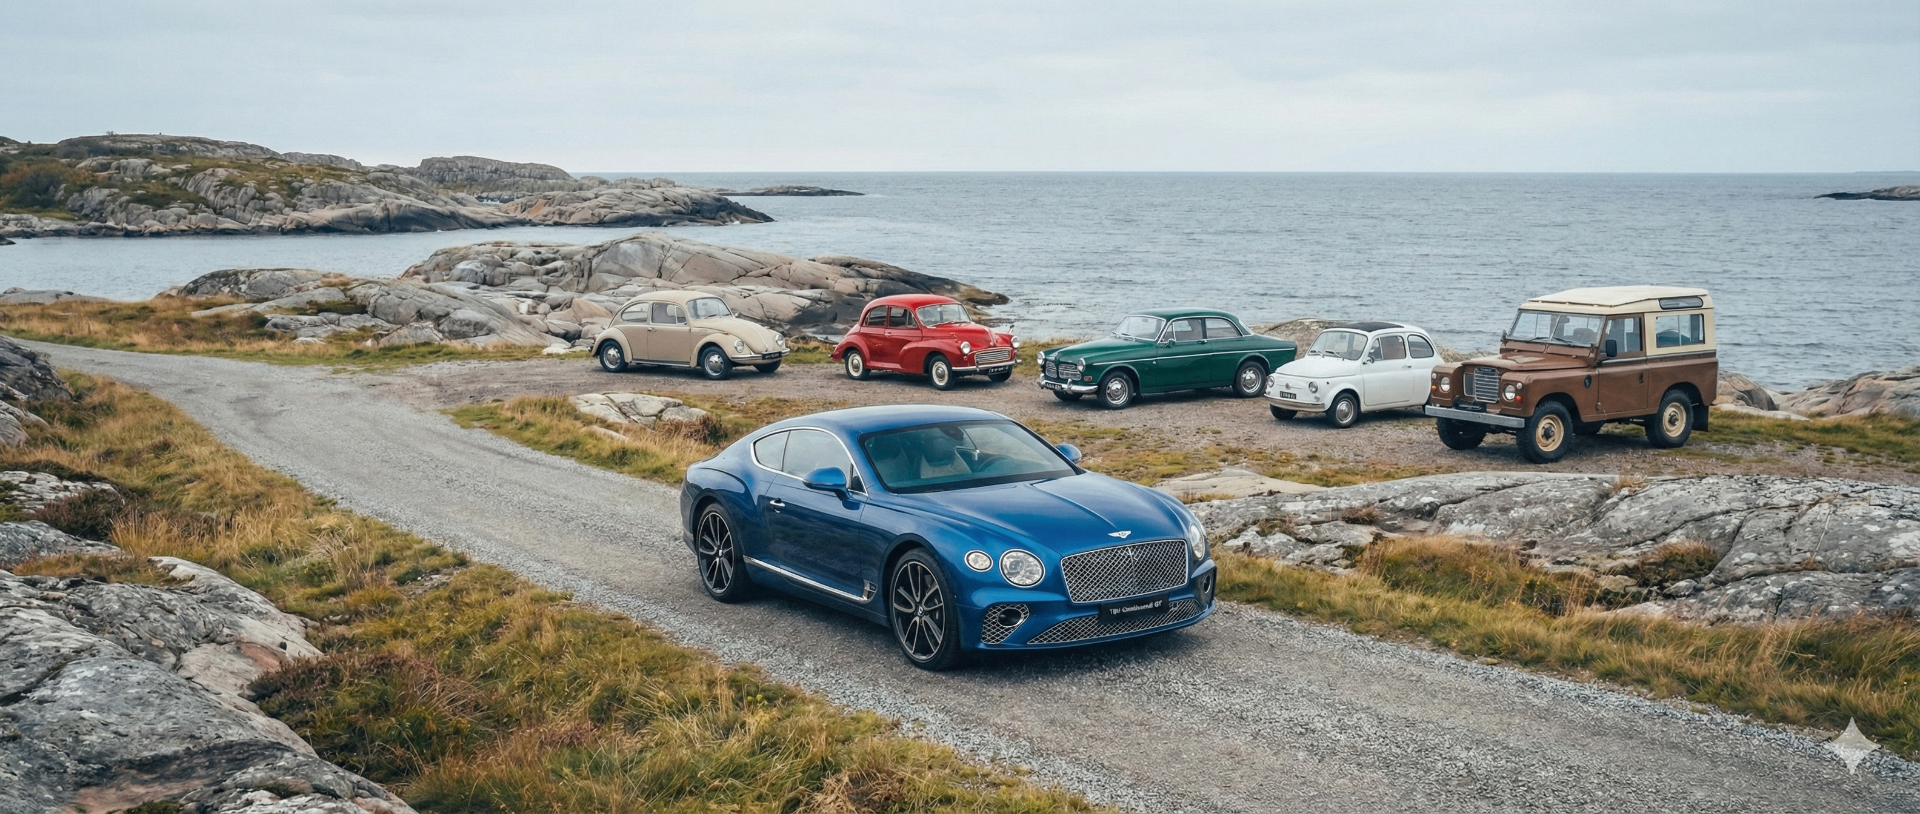
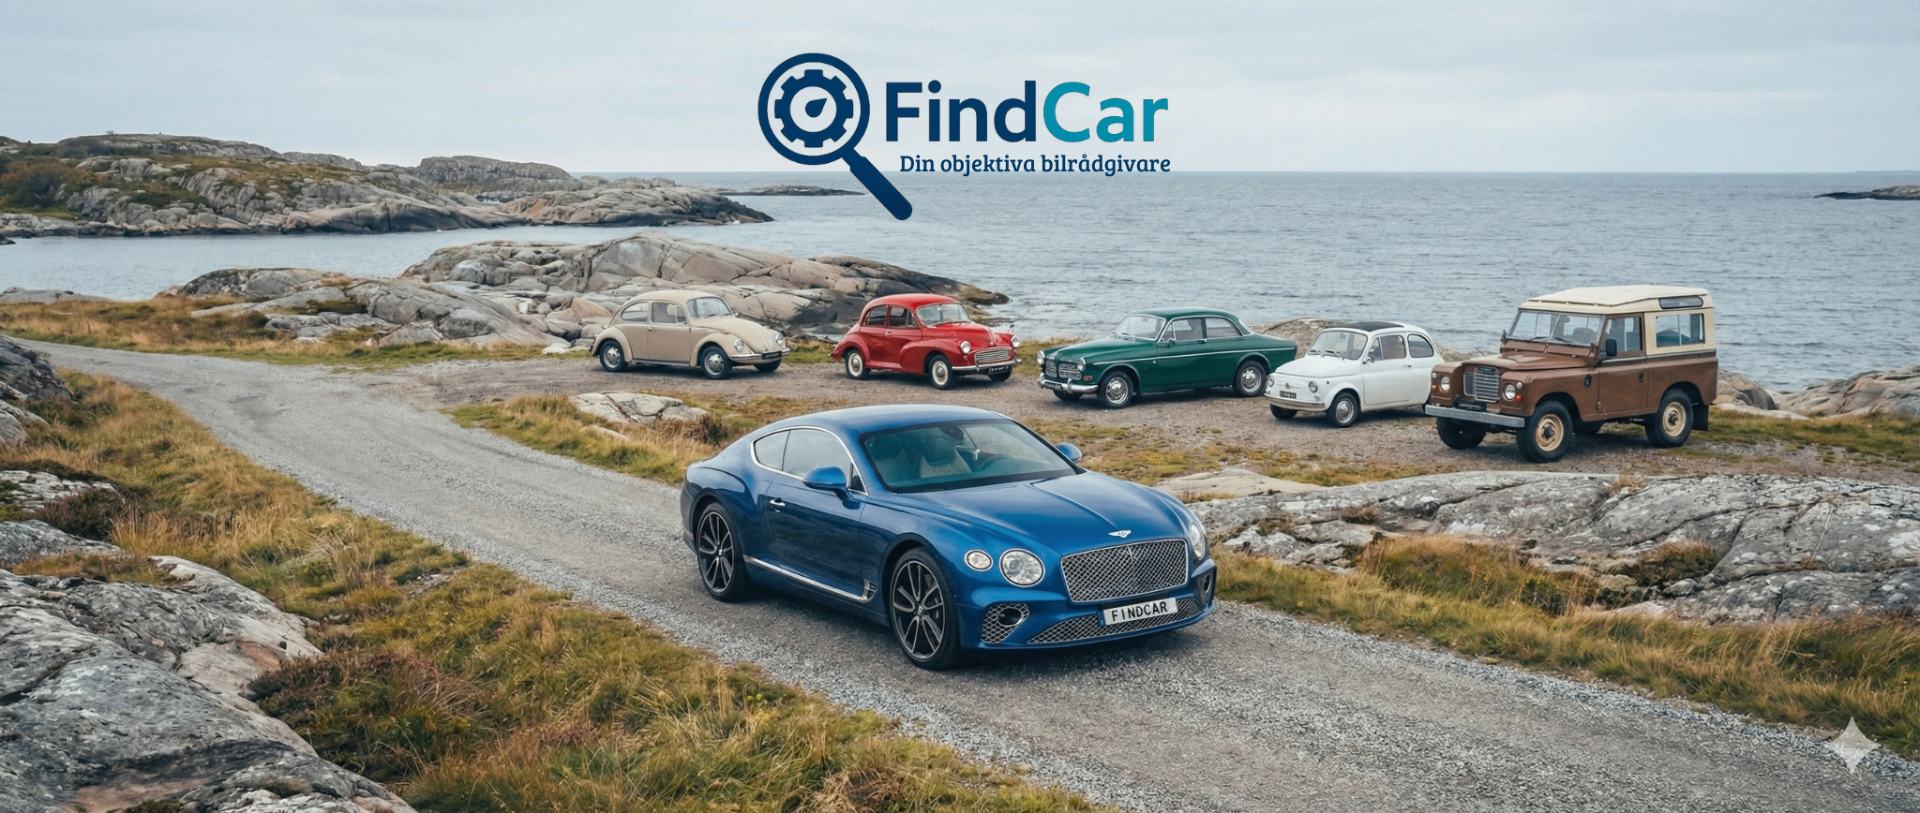
Changes

Changed region(s): [[0.375, 0.0615, 0.625, 0.2768], [0.5625, 0.738, 0.625, 0.7688]]

diff --git a/src/pages/Index.tsx b/src/pages/Index.tsx
@@ -106,24 +106,7 @@ const Index = () => {
         />
         <div className="absolute inset-0 bg-black/40" />
         
-        <div className="relative z-10 text-center px-4 mt-16 sm:mt-20 md:mt-24 flex flex-col items-center" style={{
-        opacity: 1 - scrollProgress * 1.5,
-        transform: `translateY(${scrollProgress * -60}px)`,
-        transition: 'transform 0.1s linear'
-      }}>
-          <div className="relative inline-block animate-float-subtle">
-            <div className="absolute inset-0 bg-white/15 blur-[100px] rounded-full scale-150" />
-            <div className="absolute inset-0 bg-primary/25 blur-[60px] rounded-full scale-125" />
-            <img 
-              src={logo} 
-              alt="FindCar" 
-              className="relative w-56 sm:w-64 md:w-80 lg:w-96 mx-auto drop-shadow-[0_0_40px_rgba(255,255,255,0.6)] brightness-[1.8] contrast-125" 
-            />
-          </div>
-          <p className="relative text-white/80 text-sm sm:text-base md:text-lg font-serif tracking-[0.2em] mt-2 drop-shadow-[0_2px_10px_rgba(0,0,0,0.5)] animate-float-subtle" style={{ animationDelay: '0.5s' }}>
-            Din objektiva bilrådgivare
-          </p>
-        </div>
+        {/* Logo and tagline are part of the hero image */}
 
         <div className="absolute bottom-24 z-10 animate-[fade-in_1s_ease-out_0.5s_both]" style={{
         opacity: 1 - scrollProgress * 3
